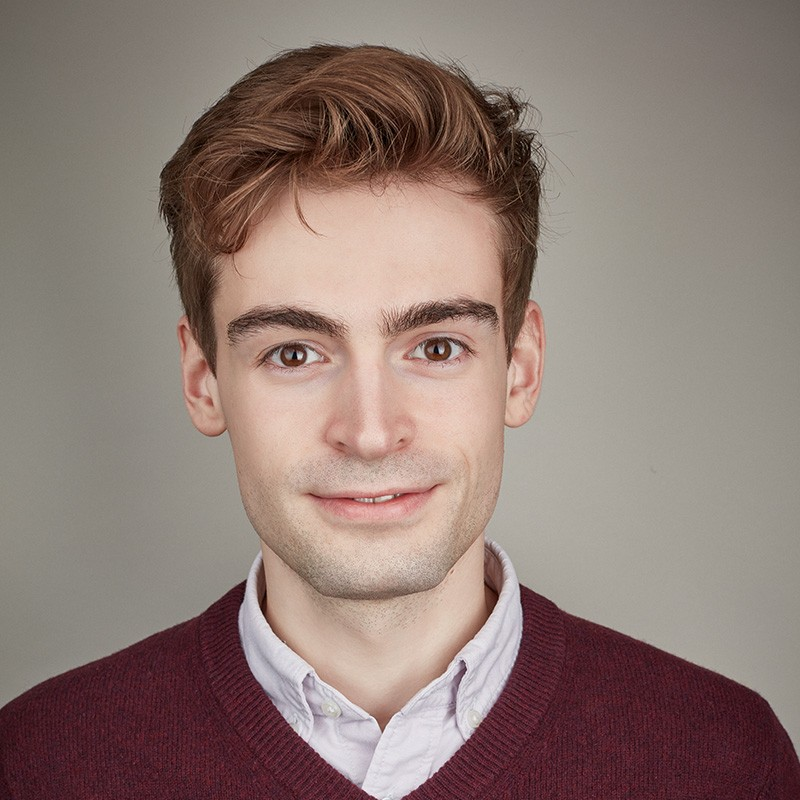
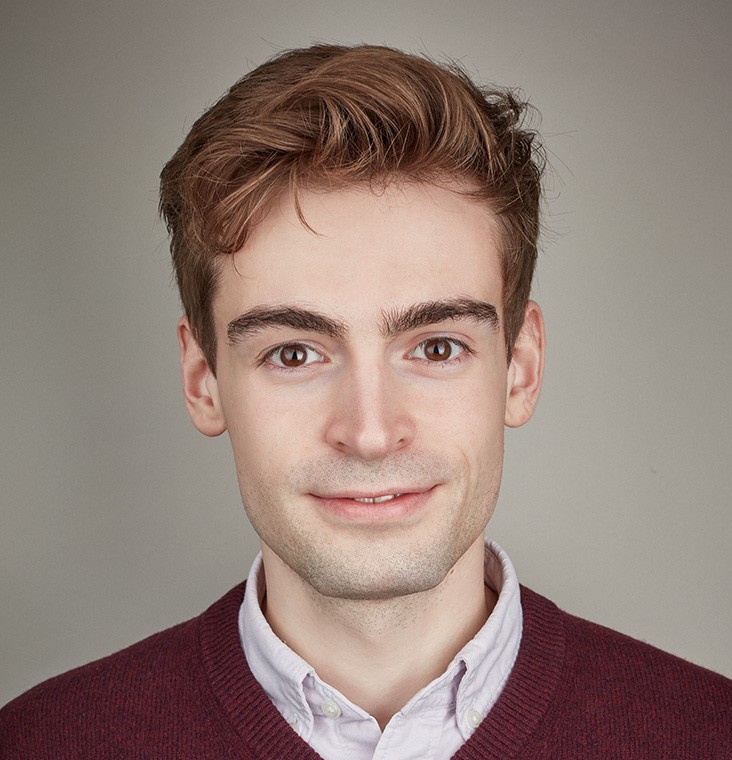
Photo update

diff --git a/project/gastrulation_website/index.html b/project/gastrulation_website/index.html
@@ -863,7 +863,7 @@
     <div class="media author-card content-widget-hr">
       
         
-        <img class="avatar mr-3 avatar-circle" src="/author/jonathan-griffiths/avatar_hu2e7681f2d8050a32c1a0ffe814fc355a_126434_270x270_fill_q90_lanczos_center.jpg" alt="Jonathan Griffiths">
+        <img class="avatar mr-3 avatar-circle" src="/author/jonathan-griffiths/avatar_hu73fee99b92663eeb58a0fd6ef7a36f0a_115305_270x270_fill_q90_lanczos_center.jpg" alt="Jonathan Griffiths">
       
 
       <div class="media-body">

diff --git a/project/mgd-playground/index.html b/project/mgd-playground/index.html
@@ -863,7 +863,7 @@
     <div class="media author-card content-widget-hr">
       
         
-        <img class="avatar mr-3 avatar-circle" src="/author/jonathan-griffiths/avatar_hu2e7681f2d8050a32c1a0ffe814fc355a_126434_270x270_fill_q90_lanczos_center.jpg" alt="Jonathan Griffiths">
+        <img class="avatar mr-3 avatar-circle" src="/author/jonathan-griffiths/avatar_hu73fee99b92663eeb58a0fd6ef7a36f0a_115305_270x270_fill_q90_lanczos_center.jpg" alt="Jonathan Griffiths">
       
 
       <div class="media-body">

diff --git a/project/mgd/index.html b/project/mgd/index.html
@@ -863,7 +863,7 @@
     <div class="media author-card content-widget-hr">
       
         
-        <img class="avatar mr-3 avatar-circle" src="/author/jonathan-griffiths/avatar_hu2e7681f2d8050a32c1a0ffe814fc355a_126434_270x270_fill_q90_lanczos_center.jpg" alt="Jonathan Griffiths">
+        <img class="avatar mr-3 avatar-circle" src="/author/jonathan-griffiths/avatar_hu73fee99b92663eeb58a0fd6ef7a36f0a_115305_270x270_fill_q90_lanczos_center.jpg" alt="Jonathan Griffiths">
       
 
       <div class="media-body">

diff --git a/project/swapping/index.html b/project/swapping/index.html
@@ -863,7 +863,7 @@
     <div class="media author-card content-widget-hr">
       
         
-        <img class="avatar mr-3 avatar-circle" src="/author/jonathan-griffiths/avatar_hu2e7681f2d8050a32c1a0ffe814fc355a_126434_270x270_fill_q90_lanczos_center.jpg" alt="Jonathan Griffiths">
+        <img class="avatar mr-3 avatar-circle" src="/author/jonathan-griffiths/avatar_hu73fee99b92663eeb58a0fd6ef7a36f0a_115305_270x270_fill_q90_lanczos_center.jpg" alt="Jonathan Griffiths">
       
 
       <div class="media-body">

diff --git a/talk/10x_cambridge/index.html b/talk/10x_cambridge/index.html
@@ -834,7 +834,7 @@
     <div class="media author-card content-widget-hr">
       
         
-        <img class="avatar mr-3 avatar-circle" src="/author/jonathan-griffiths/avatar_hu2e7681f2d8050a32c1a0ffe814fc355a_126434_270x270_fill_q90_lanczos_center.jpg" alt="Jonathan Griffiths">
+        <img class="avatar mr-3 avatar-circle" src="/author/jonathan-griffiths/avatar_hu73fee99b92663eeb58a0fd6ef7a36f0a_115305_270x270_fill_q90_lanczos_center.jpg" alt="Jonathan Griffiths">
       
 
       <div class="media-body">

diff --git a/talk/10x_paris/index.html b/talk/10x_paris/index.html
@@ -864,7 +864,7 @@
     <div class="media author-card content-widget-hr">
       
         
-        <img class="avatar mr-3 avatar-circle" src="/author/jonathan-griffiths/avatar_hu2e7681f2d8050a32c1a0ffe814fc355a_126434_270x270_fill_q90_lanczos_center.jpg" alt="Jonathan Griffiths">
+        <img class="avatar mr-3 avatar-circle" src="/author/jonathan-griffiths/avatar_hu73fee99b92663eeb58a0fd6ef7a36f0a_115305_270x270_fill_q90_lanczos_center.jpg" alt="Jonathan Griffiths">
       
 
       <div class="media-body">

diff --git a/talk/bog_2018/index.html b/talk/bog_2018/index.html
@@ -905,7 +905,7 @@
     <div class="media author-card content-widget-hr">
       
         
-        <img class="avatar mr-3 avatar-circle" src="/author/jonathan-griffiths/avatar_hu2e7681f2d8050a32c1a0ffe814fc355a_126434_270x270_fill_q90_lanczos_center.jpg" alt="Jonathan Griffiths">
+        <img class="avatar mr-3 avatar-circle" src="/author/jonathan-griffiths/avatar_hu73fee99b92663eeb58a0fd6ef7a36f0a_115305_270x270_fill_q90_lanczos_center.jpg" alt="Jonathan Griffiths">
       
 
       <div class="media-body">

diff --git a/talk/masamb_standrews/index.html b/talk/masamb_standrews/index.html
@@ -834,7 +834,7 @@
     <div class="media author-card content-widget-hr">
       
         
-        <img class="avatar mr-3 avatar-circle" src="/author/jonathan-griffiths/avatar_hu2e7681f2d8050a32c1a0ffe814fc355a_126434_270x270_fill_q90_lanczos_center.jpg" alt="Jonathan Griffiths">
+        <img class="avatar mr-3 avatar-circle" src="/author/jonathan-griffiths/avatar_hu73fee99b92663eeb58a0fd6ef7a36f0a_115305_270x270_fill_q90_lanczos_center.jpg" alt="Jonathan Griffiths">
       
 
       <div class="media-body">

diff --git a/talk/qgen_18/index.html b/talk/qgen_18/index.html
@@ -834,7 +834,7 @@
     <div class="media author-card content-widget-hr">
       
         
-        <img class="avatar mr-3 avatar-circle" src="/author/jonathan-griffiths/avatar_hu2e7681f2d8050a32c1a0ffe814fc355a_126434_270x270_fill_q90_lanczos_center.jpg" alt="Jonathan Griffiths">
+        <img class="avatar mr-3 avatar-circle" src="/author/jonathan-griffiths/avatar_hu73fee99b92663eeb58a0fd6ef7a36f0a_115305_270x270_fill_q90_lanczos_center.jpg" alt="Jonathan Griffiths">
       
 
       <div class="media-body">

diff --git a/author/jonathan-griffiths/index.html b/author/jonathan-griffiths/index.html
@@ -613,7 +613,7 @@
 
       
       
-      <img class="avatar avatar-circle" src="/author/jonathan-griffiths/avatar_hu2e7681f2d8050a32c1a0ffe814fc355a_126434_270x270_fill_q90_lanczos_center.jpg" alt="Jonathan Griffiths">
+      <img class="avatar avatar-circle" src="/author/jonathan-griffiths/avatar_hu73fee99b92663eeb58a0fd6ef7a36f0a_115305_270x270_fill_q90_lanczos_center.jpg" alt="Jonathan Griffiths">
       
 
       <div class="portrait-title">

diff --git a/index.html b/index.html
@@ -675,7 +675,7 @@
 
       
       
-      <img class="avatar avatar-circle" src="/author/jonathan-griffiths/avatar_hu2e7681f2d8050a32c1a0ffe814fc355a_126434_270x270_fill_q90_lanczos_center.jpg" alt="Jonathan Griffiths">
+      <img class="avatar avatar-circle" src="/author/jonathan-griffiths/avatar_hu73fee99b92663eeb58a0fd6ef7a36f0a_115305_270x270_fill_q90_lanczos_center.jpg" alt="Jonathan Griffiths">
       
 
       <div class="portrait-title">
